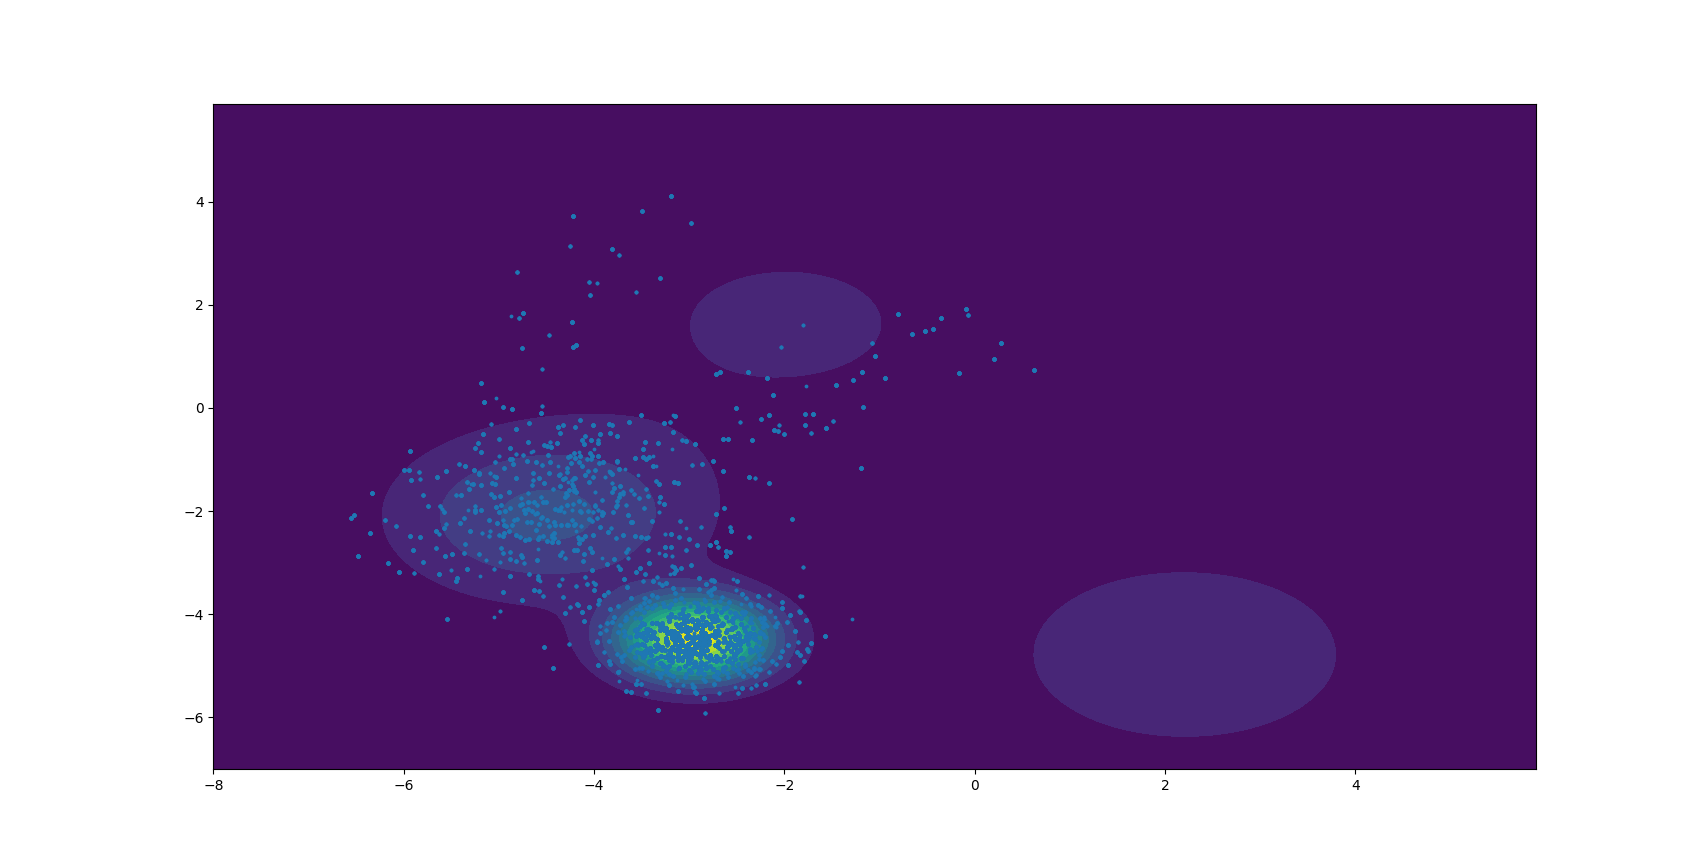
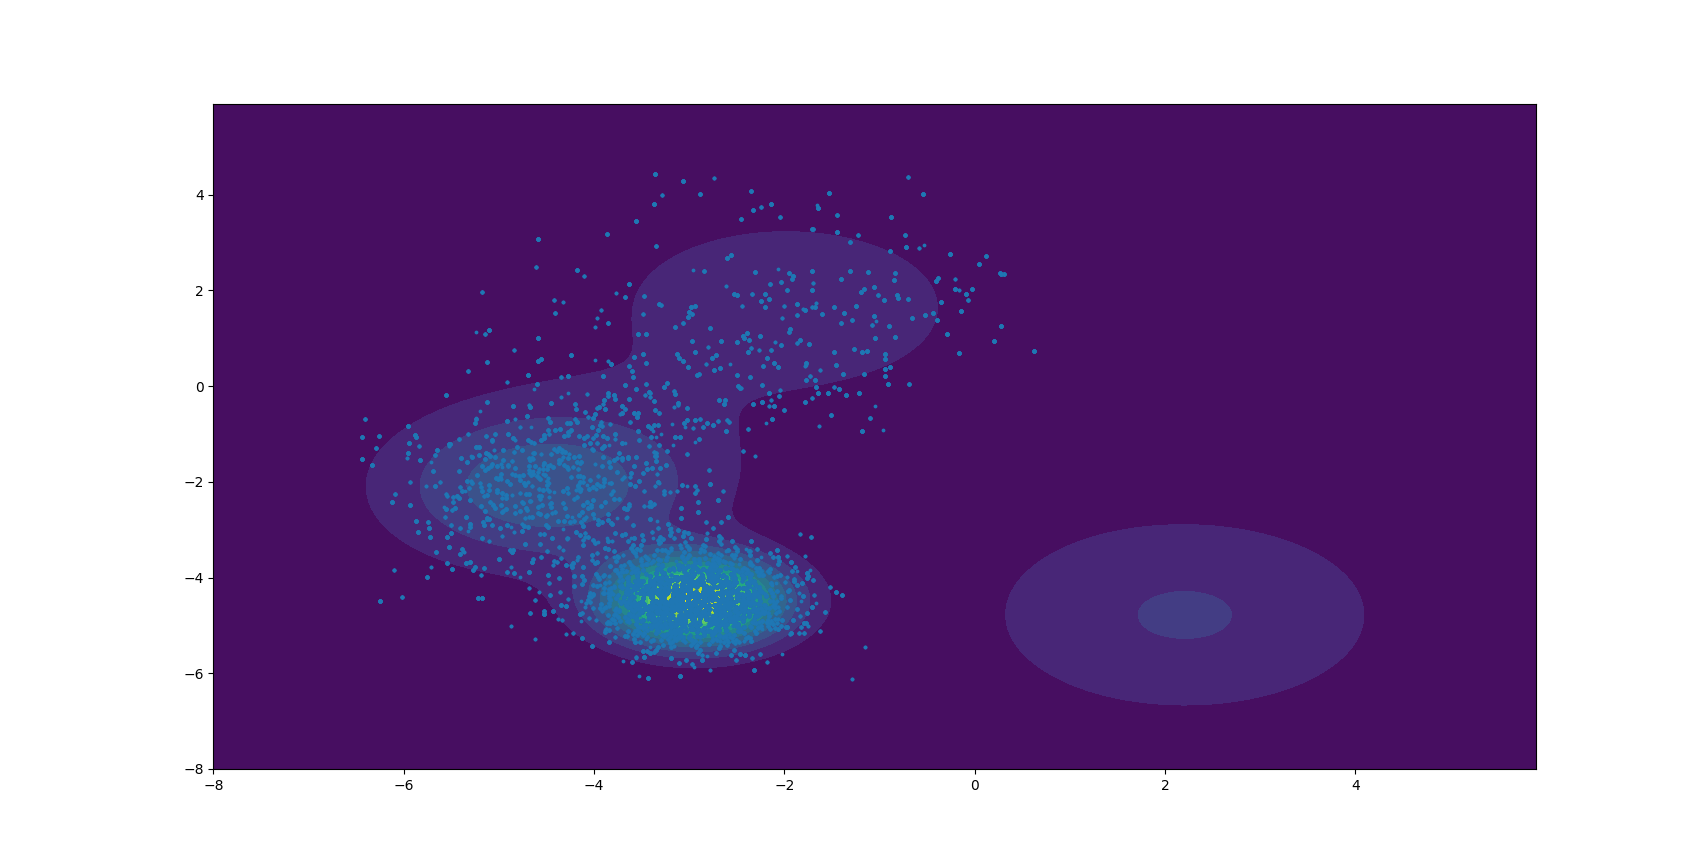
TP_MH debug

diff --git a/utils/chains.py b/utils/chains.py
@@ -102,7 +102,6 @@ class PT_M_H_Chain(BasicChain):
         comp_init_state = np.expand_dims(init_state, 0).repeat((self.B+1), axis=0)  # [B+1, D]
         self.comp_chain = [comp_init_state]
         self.comp_cur_state = comp_init_state
-        self.temp_idx = 0
         
         
     def _step(self):
@@ -113,30 +112,29 @@ class PT_M_H_Chain(BasicChain):
         
         comp_cur_state = self.comp_cur_state
         comp_next_state = np.zeros_like(comp_cur_state)
+        temperatures = self.temperatures
         
         # parallel M-H transition.
         for idx in range(self.B+1):
             comp_next_state[idx] = self.kernal(
-                comp_cur_state[idx], temperature=self.temperatures[idx]
+                comp_cur_state[idx], temperature=temperatures[idx]
             )
             
         # Switch temperature.
-        temp_idx = self.temp_idx
         f_u = self.f_u
         
-        next_temp_idx = np.clip(
-            temp_idx + np.random.choice([-1, 1], p=[.5, .5]),
-            a_min=0, a_max=self.B
+        next_temp_idx = np.random.choice(
+            range(self.B+1)
         )
         
         alpha = min(
             1,
-            f_u(comp_cur_state[temp_idx], temperature=next_temp_idx) * f_u(comp_cur_state[next_temp_idx], temperature=temp_idx) / \
-            f_u(comp_cur_state[next_temp_idx], temperature=next_temp_idx) / f_u(comp_cur_state[temp_idx], temperature=temp_idx)
+            f_u(comp_cur_state[next_temp_idx], temperature=temperatures[0]) /
+            f_u(comp_cur_state[0], temperature=temperatures[0]) 
         )
         
-        if np.random.random() < alpha:    # Switch.
-            comp_next_state[[temp_idx, next_temp_idx], ...] = comp_next_state[[next_temp_idx, temp_idx], ...]
+        if np.random.random() < alpha:    
+            comp_next_state[0, ...] = comp_next_state[next_temp_idx, ...]
             
             
         self.comp_chain.append(comp_next_state)

diff --git a/run.py b/run.py
@@ -9,12 +9,14 @@ from utils.visualizer import *
 def main():
     
     state_dim = 2
-    length = 30000
+    length = 20000
     burn = 1000
     
     # Select target.
     f_u = MultiPeaksTarget(
-        state_dim=state_dim
+        state_dim=state_dim,
+        pos_range=[-5, 5],
+        var_range=[.1, 4]
     )
     
     # Select algorithm.
@@ -29,11 +31,12 @@ def main():
         kernal=kernal
     )
     
-    # chain = PT_M_H_Chain(
-    #     init_state=np.random.uniform(low=-1, high=1, size=(state_dim,)),
-    #     kernal=kernal,
-    #     f_u=f_u
-    # )
+    chain = PT_M_H_Chain(
+        init_state=np.random.uniform(low=-1, high=1, size=(state_dim,)),
+        temperatures=[.9, .8, .6, .3, .1, 0],
+        kernal=kernal,
+        f_u=f_u
+    )
     
     # Run the chain.
     chain.run(length=length)
